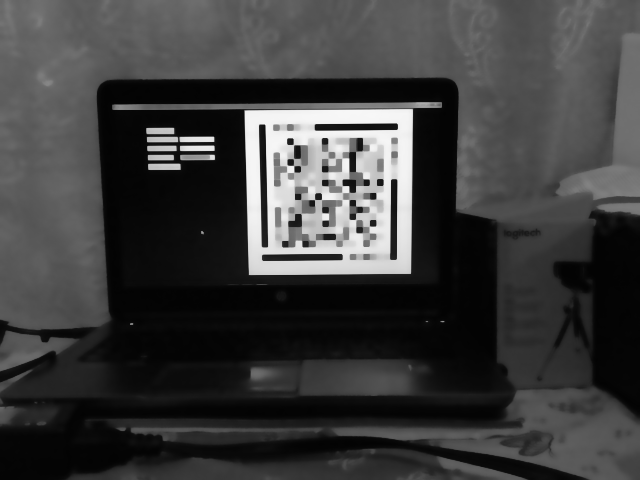
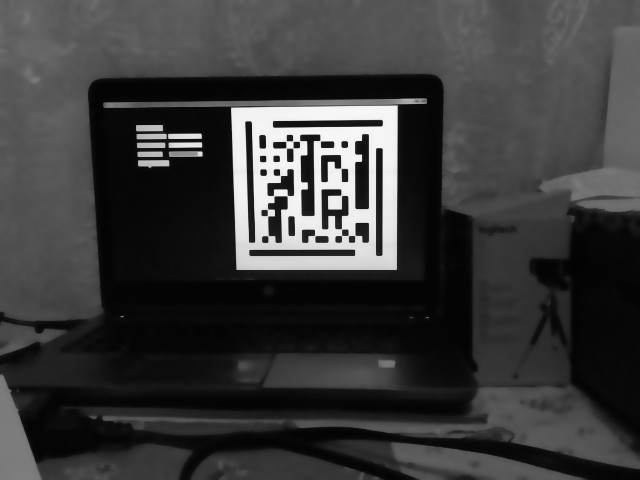
FER

diff --git a/Receptor2.py b/Receptor2.py
@@ -33,7 +33,7 @@ class Interfaz:
     def __init__(self):
         self.Interfaz = Tk()
         self.Interfaz.state('zoomed')
-        self.Interfaz.configure(bg='#636363')
+        self.Interfaz.configure(bg='#F1F1F1')
         self.cap = None
         self.hilo2 = None
         self.sincronizacionAnterior=[[255,255,255],[255,255,255],[255,255,255]]
@@ -50,6 +50,8 @@ class Interfaz:
         self.tiempoTotal = 0
         self.TramasFaltantes = 0
         self.tramaAnterior = 0
+        self.FER = 0
+        self.FPS = 0
         #PATRONES POR SEGUNDO
         self.etiqueta = Label(text="FPS: ").place(relx=0.05,rely=0.15)
         self.patronesPorSegundo = ttk.Combobox(state="readonly", values=[30,60])
@@ -94,14 +96,21 @@ class Interfaz:
         self.TF = StringVar()
         self.etiquetaR = Label(self.Interfaz,textvariable=self.TR).place(relx=0.6,rely=0.15)
         self.etiquetaFa = Label(self.Interfaz,textvariable=self.TF).place(relx=0.6,rely=0.20)
-
         self.TR.set("Tramas Recibidas: ")
         self.TF.set("Tramas Faltantes: ")
-
+        
+        #FPS
+        self.TFPS = StringVar()
+        self.etiquetaFPS = Label(self.Interfaz,textvariable=self.TFPS).place(relx=0.05,rely=0.4)
+        self.TFPS.set("FPS: ")
         #FER
-        self.etiquetaF = Label(text="FER: ").place(relx=0.6,rely=0.25)
+        self.TFER = StringVar()
+        self.etiquetaF = Label(self.Interfaz,textvariable=self.TFER).place(relx=0.6,rely=0.25)
+        self.TFER.set("FER: ")
         #BER
-        self.etiquetaB = Label(text="BER: ").place(relx=0.6,rely=0.35)
+        self.TBER = StringVar()
+        self.etiquetaB = Label(self.Interfaz,textvariable=self.TBER).place(relx=0.6,rely=0.35)
+        self.TBER.set("BER: ")
 
         self.Interfaz.mainloop()
 
@@ -124,20 +133,22 @@ class Interfaz:
             byte = bits[b*8:(b+1)*8]
             chars.append(chr(int(''.join([str(bit) for bit in byte]), 2)))
         return ''.join(chars)
+            
 
     def leerTramas(self,dst2,c):
-
         #Verificar si la primera trama valida fue recibida
-        cv2.imshow("Imagen trama",dst2)
         if self.numTramas == 0:
+            print("Primera trama: ",c)
             #Calculo de los colores referencia, obtencion de los bits y campos de la trama
             imagen = coloresReferencia(dst2,int(self.tamanoMatriz.get()),int(self.numeroColores.get()))
             coloresR = imagen.obtenerColoresReferencia()
+            print("Muestra de color")
             matriz = muestraDeColor(dst2,int(self.tamanoMatriz.get()),coloresR,int(self.numeroColores.get()))
+            print("Mapeo a bit")
             bits = matriz.mapeoaBit()
             trama = Trama(bits,int(self.tamanoMatriz.get()),int(self.numeroColores.get()))
             trama.obtenerCampos()
-            #si la trama es valida, alamcena el número total de tramas e incrementa las tramas validas en 1
+            #si la trama es valida, almacena el número total de tramas e incrementa las tramas validas en 1
             if trama.tramaValida == True:
                 print("primera trama recibida correctamente: ",c)
                 self.numTramas = trama.numeroTramas
@@ -151,7 +162,7 @@ class Interfaz:
                 self.cargaUtil[trama.numeroDeTrama-1] = trama.cargaUtil
                 self.tramasValidas += 1
                 print("valida")
-                TramasTransmitidas=TramaBER(self.numTramas,self.cargaUtil.length,self.numeroColores,self.tamanoMatriz)
+                #TramasTransmitidas=TramaBER(self.numTramas,self.cargaUtil.length,self.numeroColores,self.tamanoMatriz)
                 
             #Si no es valida, incrementa el valor de las tramas invalidas en 1
             else:
@@ -229,6 +240,26 @@ class Interfaz:
         while frame is not None:
             print("******************************************")
             print("Procesando: Nuevo16-"+str(c))
+            dst2 = self.transformacionPerspectiva(frame,c)
+            nombreImagen = 'Nuevo_16-'+str(c)+'.png'
+            imgl = Image.open(nombreImagen)
+            imgl.thumbnail((300,300), Image.ANTIALIAS)
+            imgScreen = ImageTk.PhotoImage(imgl)
+            self.l1.configure(image = imgScreen)
+            self.Interfaz.update()
+            self.leerTramas(dst2,c)
+            c = c+1
+            frame = cv2.imread('Nuevo16-'+str(c)+'.png')
+
+        print("Tramas validas: ",self.tramasValidas)
+        print("Tramas invalidas: ",self.tramasInvalidas)
+        print("Tramas totales: ", self.tramasInvalidas + self.tramasValidas)
+
+        self.FER = self.tramasInvalidas/(self.tramasInvalidas + self.tramasValidas)
+        self.TFER.set("FER: " + format(self.FER))
+
+    
+    def transformacionPerspectiva(self,frame,c):
             bilFilter = cv2.bilateralFilter(frame,9,75,75)
             gray = cv2.cvtColor(bilFilter, cv2.COLOR_BGR2GRAY)
             with Lock(): 
@@ -237,7 +268,7 @@ class Interfaz:
             cv2.imwrite("NuevoGris.png", gray)
 
             ret,thresh = cv2.threshold(gray,200,255,1)
-            _,contours,h = cv2.findContours(thresh,1,2)
+            contours,h = cv2.findContours(thresh,1,2)
             #cv2.imshow('vhf',thresh)
             cv2.imwrite("NuevoNegro.png", thresh)
 
@@ -246,8 +277,9 @@ class Interfaz:
                 area = cv2.contourArea(cnt)
                 auxT=int(self.tamanoMatriz.get())+4
                 tamanoFinal = auxT*20
-
-                if len(approx)==4 and area > 9000 and area<270000:
+                
+                #if len(approx)==4 and area > 9000 and area<270000:
+                if len(approx)==4 and area > 20000 and area<270000:
                     approx1=[approx[0],approx[1],approx[3],approx[2]]
                     pts1 = np.float32(approx1)
                     pts2 = np.float32([[0,0],[0,tamanoFinal],[tamanoFinal,0],[tamanoFinal,tamanoFinal]])
@@ -265,7 +297,7 @@ class Interfaz:
                     erode = cv2.erode(dilate,None)
 
                     # Find contours with cv2.RETR_CCOMP
-                    _,contours,hierarchy = cv2.findContours(erode,cv2.RETR_CCOMP,cv2.CHAIN_APPROX_SIMPLE)
+                    contours,hierarchy = cv2.findContours(erode,cv2.RETR_CCOMP,cv2.CHAIN_APPROX_SIMPLE)
                     #cv2.drawContours(img,contours,-1,(255,0,255),3)
             
                     e1x = 300
@@ -285,20 +317,16 @@ class Interfaz:
                                 e1x = x
                                 e1y = y
                                 #print(format(x)+'-2-'+format(y))
-                        
                             if x+w>e2x and y+h>e2y:
                                 e2x = x+w
                                 e2y = y+h
                                 cv2.circle(img,(x+w,y+h), 2, (0,255,0), -1)
-
                     #cv2.rectangle(img,(e1x,e1y),(e2x,e2y),(0,255,0),2)
                     #cv2.imshow('Segundo',img)
-
                     pts1 = np.float32([[e1x,e1y],[e2x,e1y],[e1x,e2y],[e2x,e2y]])
                     pts2 = np.float32([[0,0],[0,tamanoFinal],[tamanoFinal,0],[tamanoFinal,tamanoFinal]])
                     M = cv2.getPerspectiveTransform(pts1,pts2)
                     dst2 = cv2.warpPerspective(img,M,(tamanoFinal,tamanoFinal))
-
                     rows,cols = dst2.shape[:2]
 
                     r = rotarImagen(dst2,int(self.tamanoMatriz.get()),int(self.numeroColores.get()))
@@ -318,40 +346,50 @@ class Interfaz:
                         cv2.line(dst2,pt1,pt2,(0,255,0),1)
 
                     #cv2.imshow("Transformacion2", dst2)
-
-                    coloresR = coloresReferencia(dst2,self.tamanoMatriz.get(),self.numeroColores.get())
+                    #coloresR = coloresReferencia(dst2,self.tamanoMatriz.get(),self.numeroColores.get())
                     #print(coloresR.obtenerColoresReferencia())
-                    sincronizacion=CeldaSincronizacion(self.tamanoMatriz.get())
-                    celdaSincronizacion=sincronizacion.LeerCeldas(dst2)
-                    FuncionSincronizacion=Sincronizacion(celdaSincronizacion,self.sincronizacionAnterior)
-                    comparar=FuncionSincronizacion.CompararCeldas()
-                    self.sincronizacionAnterior = celdaSincronizacion
-            
+                    #sincronizacion=CeldaSincronizacion(self.tamanoMatriz.get())
+                    #celdaSincronizacion=sincronizacion.LeerCeldas(dst2)
+                    #FuncionSincronizacion=Sincronizacion(celdaSincronizacion,self.sincronizacionAnterior)
+                    #comparar=FuncionSincronizacion.CompararCeldas()
+                    #self.sincronizacionAnterior = celdaSincronizacion
                     #if comparar==1:
                     #    print('sincronización igual')
                     #else:
                     #print('sincronización nuevo')
-                    self.leerTramas(dst2,c)
                     cv2.imwrite("Nuevo_16-"+str(c)+".png", dst2)
-                    nombreImagen = 'Nuevo_16-'+str(c)+'.png'
-                    imgl = Image.open(nombreImagen)
-                    imgl.thumbnail((300,300), Image.ANTIALIAS)
-                    imgScreen = ImageTk.PhotoImage(imgl)
-                    self.l1.configure(image = imgScreen)
-                    self.Interfaz.update()
-            c = c+1
-            frame = cv2.imread('Nuevo16-'+str(c)+'.png')
-        print("Tramas validas: ",self.tramasValidas)
-        print("Tramas invalidas: ",self.tramasInvalidas)
-        print("Tramas totales: ", self.tramasInvalidas + self.tramasValidas)
-
+            return dst2
+        
     def IniciarProcesamiento(self):
-
         self.hilo = threading.Thread(target=self.IniciarCaptura2, 
                             args=(int(self.segundos.get()),))
         self.hilo.start()
     
-    def IniciarCaptura2(self,segundos):  
+    def IniciarCaptura2(self,segundos):
+
+        self.cap = None
+        self.hilo2 = None
+        self.sincronizacionAnterior=[[255,255,255],[255,255,255],[255,255,255]]
+        self.tramasRecibidas = np.array([],dtype=int)
+        self.cargaUtil = []
+        self.datos = np.array([],dtype=int)
+        self.frames = []
+        self.cont = 0
+        self.numTramas = 0
+        self.tramasValidas = 0
+        self.tramasInvalidas = 0
+        self.tiempoInicial = 0
+        self.tiempoFinal = 0
+        self.tiempoTotal = 0
+        self.TramasFaltantes = 0
+        self.tramaAnterior = 0
+        self.TBER.set("BER: ")
+        self.TFER.set("FER: ")
+        self.TFPS.set("FPS: ")
+        self.TR.set("Tramas Recibidas: ")
+        self.TF.set("Tramas Faltantes: ")
+
+        self.borrarImagenes()
         top = Toplevel()
         top.title("Información")
         msg = Message(top,width=300,text="                     Iniciando camara...                  ")
@@ -359,9 +397,9 @@ class Interfaz:
 
         self.tiempoInicial = time.time()
         if self.patronesPorSegundo.get() == 30:
-            self.cap = VideoCaptureAsync("http://192.168.1.70:4747/video",1920,1080,30)
+            self.cap = VideoCaptureAsync(1,1920,1080,30)
         else:
-            self.cap = VideoCaptureAsync("http://192.168.1.70:4747/video",1280,720,60)
+            self.cap = VideoCaptureAsync(1,1280,720,60)
         self.cap.start()
 
         contador = 0
@@ -386,6 +424,8 @@ class Interfaz:
                     #pass
                     exit()
             break
+        self.FPS = contador/segundos
+        self.TFPS.set("FPS: "+format(self.FPS))
         top.destroy()
         hilo2 = threading.Thread(target=self.leerFrames)
         hilo2.start()          
@@ -418,7 +458,7 @@ class Interfaz:
                         cv2.imwrite("NuevoGris.png", gray)
 
                         ret,thresh = cv2.threshold(gray,200,255,1)
-                        _,contours,h = cv2.findContours(thresh,1,2)
+                        contours,h = cv2.findContours(thresh,1,2)
                         cv2.imshow('vhf',thresh)
                         cv2.imwrite("NuevoNegro.png", thresh)
 
@@ -449,7 +489,7 @@ class Interfaz:
                                 erode = cv2.erode(dilate,None)
 
                                 # Find contours with cv2.RETR_CCOMP
-                                _,contours,hierarchy = cv2.findContours(erode,cv2.RETR_CCOMP,cv2.CHAIN_APPROX_SIMPLE)
+                                contours,hierarchy = cv2.findContours(erode,cv2.RETR_CCOMP,cv2.CHAIN_APPROX_SIMPLE)
                                 #cv2.drawContours(img,contours,-1,(255,0,255),3)
                         
                                 e1x = 300

diff --git a/muestraDeColor.py b/muestraDeColor.py
@@ -31,13 +31,13 @@ class muestraDeColor:
 
         for f in range(self.tamanoMatriz):
             for c in range(self.tamanoMatriz):
-                
-                if aux == indice:
+                if x == indice:
                     return arregloColores
                 celda = matriz[f*self.tamCelda:(f+1)*self.tamCelda , c*self.tamCelda:(c+1)*self.tamCelda]
                 if (f==0 and c==0) or (f==0 and c==self.tamanoMatriz-1) or (f==self.tamanoMatriz-1 and c==self.tamanoMatriz-1):
                     d=1
                 else:
+                    x += 1
                     if f<(self.tamanoMatriz/2)+2 and c<(self.tamanoMatriz/2)+1:
                         colorC = Color(celda)
                         colorCelda = colorC.colorDominante()
@@ -110,14 +110,14 @@ class muestraDeColor:
 
         arregloBits = np.zeros((),dtype = np.uint8)
         arregloColores = self.numTramas()
-        #print("arreglo colores: ", arregloColores)
+        #print("indicadores: arreglo colores ",arregloColores)
         
         if self.numColores == 2:
             a = np.array([1])
             arregloBits = np.concatenate((a,arregloColores), axis=None)
 
         elif self.numColores == 4:
-            for x in range(indice):
+            for x in range((indice)):
                 if arregloColores[x] == 1:
                     a = np.array([0,0],dtype=np.uint8)
                     arregloBits = np.concatenate((arregloBits,a),axis=None)
@@ -164,7 +164,7 @@ class muestraDeColor:
         indice = int(math.log(self.numColores,2))
         arregloBits = np.zeros((),dtype = np.uint8)
         arregloColores = self.celda()
-        #print("arreglo colores: ",arregloColores)
+        #print("mapeo Bit arreglo colores: ",arregloColores)
         if self.numColores == 2:
             a = np.array([1])
             arregloBits = np.concatenate((a,arregloColores), axis=None)

diff --git a/Trama.py b/Trama.py
@@ -19,8 +19,8 @@ class Trama:
     def obtenerIndicadores(self):
         self.numeroTramas = int(''.join(map(str,  self.arregloBits[0:8]                     )),2)
         self.numeroDeTrama = int(''.join(map(str, self.arregloBits[8:16]                    )),2)
-        #print("numero de tramas: ", self.arregloBits[0:8])
-        #print("numero de trama: ",  self.arregloBits[8:16])
+        #print("indicadores: numero de tramas: ", self.arregloBits[0:8])
+        #print("indicadores: numero de trama: ",  self.arregloBits[8:16])
 
     def obtenerCampos(self):
         BitsPorTrama = int((((self.tamanoMatriz*self.tamanoMatriz)-3)*math.log2(self.numColores))-32)        

diff --git a/TramasBER.py b/TramasBER.py
@@ -1,7 +1,7 @@
 import math
 from EstructuraTrama import EstructuraTrama
-from PatronDeColor import PatronDeColor
-from Imagen3 import Imagen
+#from PatronDeColor import PatronDeColor
+#from Imagen3 import Imagen
 
 
 class TramaBER:
